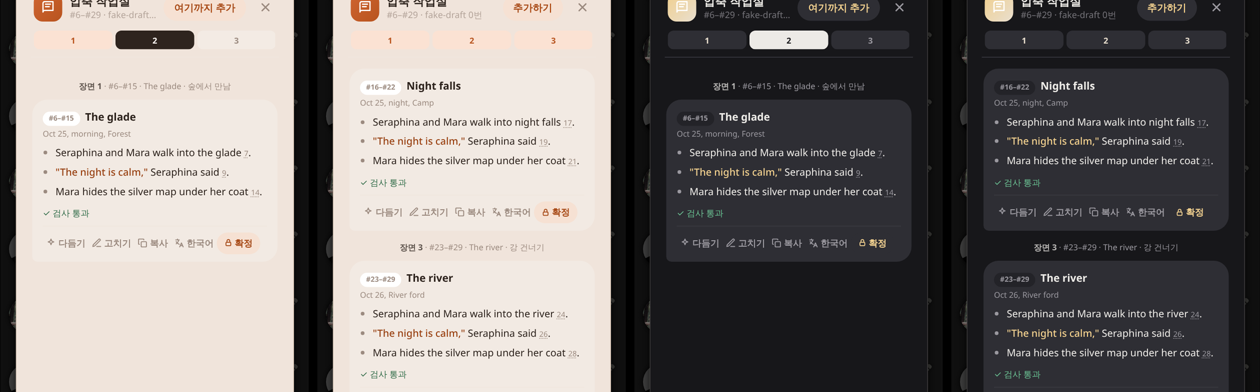
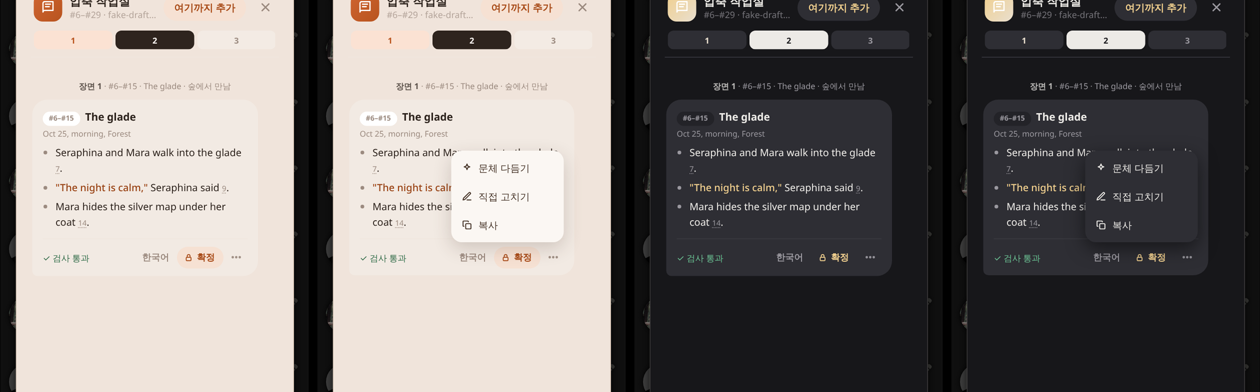
3.169.13: 작업실 answer actions as one row that never wraps: the check on the left, 한국어 and 확정 on the right, the rest behind ⋯
Claude-Session: https://claude.ai/code/session_01TBUyc5NesEMBcPKHWzpL6W

diff --git a/style.css b/style.css
@@ -7909,24 +7909,26 @@ body:is(.na_darkui, :not(.na_darkui)) dialog.popup .na_st button.na_st_add:not(#
 body:not(.na_darkui) dialog.popup .na_st button.na_st_add:not(#na_x) { background: #F6E1D3 !important; color: #A84A17 !important; }
 body.na_darkui dialog.popup .na_st button.na_st_add:not(#na_x) { background: #2E2E34 !important; color: #F0CF8E !important; }
 
-/* ============ 작업실 › answer actions (docs/mockups/ext-studio-acts C): the check as plain green text above a hairline; under
-   it 다듬기 · 고치기 · 복사 · 한국어 as icon + word, 확정 as the one soft orange pill */
-.na_st3_tags { margin-top: 10px !important; }
+/* ============ 작업실 › answer actions (docs/mockups/ext-studio-acts B): one row under a hairline that never wraps — the check
+   as plain green text on the left, 한국어 and 확정 on the right, the rest behind ⋯ */
+.na_st3_bar { display: flex; align-items: center; gap: 8px; margin-top: 12px; padding-top: 10px; border-top: 1px solid var(--st-line, var(--na-line2)); }
+.na_st3_tags { flex: 1; min-width: 0; display: flex; flex-wrap: wrap; gap: 4px 8px; }
 .na_st3_tags .na_st_tag { background: transparent !important; box-shadow: none !important; padding: 0 !important; font-size: 11.5px; }
 .na_st3_tags .na_st_tag.ok::before { content: "✓ "; }
-.na_st3_row { display: flex; align-items: center; gap: 2px; margin-top: 8px; padding-top: 8px; border-top: 1px solid var(--st-line, var(--na-line2)); flex-wrap: nowrap; overflow-x: auto; scrollbar-width: none; }
-.na_st3_row::-webkit-scrollbar { display: none; }
-body:is(.na_darkui, :not(.na_darkui)) dialog.popup .na_st3_row > button:not(#na_x) { flex: none; display: inline-flex !important; align-items: center; gap: 4px; width: auto !important; min-height: 0 !important; height: auto !important; margin: 0 !important; padding: 5px 6px !important; border: 0 !important; border-radius: 999px !important; background: transparent !important; box-shadow: none !important; color: var(--st-dim) !important; font: inherit; font-size: 12px !important; font-weight: 600 !important; white-space: nowrap; cursor: pointer; }
-body:is(.na_darkui, :not(.na_darkui)) dialog.popup .na_st3_row > button.na_st_ko.on:not(#na_x), body:is(.na_darkui, :not(.na_darkui)) dialog.popup .na_st3_row > button.na_st_fix:not(.na_st_polish):not(#na_x) { color: var(--st-acc) !important; }
-body:is(.na_darkui, :not(.na_darkui)) dialog.popup .na_st3_row > button.na_st_lk:not(#na_x) { padding: 5px 12px !important; font-weight: 700 !important; }
-body:not(.na_darkui) dialog.popup .na_st3_row > button.na_st_lk:not(.on):not(#na_x) { background: #F6E1D3 !important; color: #A84A17 !important; }
-body.na_darkui dialog.popup .na_st3_row > button.na_st_lk:not(.on):not(#na_x) { background: #2E2E34 !important; color: #F0CF8E !important; }
-body:is(.na_darkui, :not(.na_darkui)) dialog.popup .na_st3_row > button.na_st_lk.on:not(#na_x) { background: var(--st-ok) !important; color: #fff !important; }
-body.na_darkui dialog.popup .na_st3_row > button.na_st_lk.on:not(#na_x) { color: #13261B !important; }
-.na_st_bub:has(.na_st3_row) { max-width: 100%; align-self: stretch; }
-.na_st3_row { flex-wrap: wrap; overflow: visible; row-gap: 4px; }
-body:is(.na_darkui, :not(.na_darkui)) dialog.popup .na_st3_row > button:not(#na_x) { padding: 5px 5px !important; gap: 3px; }
-body:is(.na_darkui, :not(.na_darkui)) dialog.popup .na_st3_row > button.na_st_lk:first-of-type:not(#na_x) { margin-left: auto !important; }
-.na_st3_row { gap: 0; }
-body:is(.na_darkui, :not(.na_darkui)) dialog.popup .na_st3_row > button:not(.na_st_lk):not(#na_x) { padding: 5px 4px !important; }
-body:is(.na_darkui, :not(.na_darkui)) dialog.popup .na_st3_row > button.na_st_lk:not(#na_x) { padding: 5px 10px !important; }
+.na_st3_right { flex: none; display: flex; align-items: center; gap: 4px; }
+body:is(.na_darkui, :not(.na_darkui)) dialog.popup .na_st3_right > button.na_st_ko:not(#na_x) { margin: 0 !important; padding: 5px 6px !important; border: 0 !important; background: transparent !important; box-shadow: none !important; color: var(--st-dim) !important; font-size: 12px !important; font-weight: 600 !important; white-space: nowrap; }
+body:is(.na_darkui, :not(.na_darkui)) dialog.popup .na_st3_right > button.na_st_ko.on:not(#na_x) { color: var(--st-acc) !important; }
+body:is(.na_darkui, :not(.na_darkui)) dialog.popup .na_st3_right > button.na_st_lk:not(#na_x) { margin: 0 !important; padding: 5px 11px !important; border: 0 !important; box-shadow: none !important; font-size: 12px !important; font-weight: 700 !important; white-space: nowrap; }
+body:not(.na_darkui) dialog.popup .na_st3_right > button.na_st_lk:not(.on):not(#na_x) { background: #F6E1D3 !important; color: #A84A17 !important; }
+body.na_darkui dialog.popup .na_st3_right > button.na_st_lk:not(.on):not(#na_x) { background: #2E2E34 !important; color: #F0CF8E !important; }
+body:is(.na_darkui, :not(.na_darkui)) dialog.popup .na_st3_right > button.na_st_lk.on:not(#na_x) { background: var(--st-ok) !important; color: #fff !important; }
+body.na_darkui dialog.popup .na_st3_right > button.na_st_lk.on:not(#na_x) { color: #13261B !important; }
+.na_st_more { position: relative; display: inline-flex; }
+body:is(.na_darkui, :not(.na_darkui)) dialog.popup button.na_st_dots:not(#na_x) { display: inline-flex !important; align-items: center; justify-content: center; width: 28px !important; height: 28px !important; min-height: 0 !important; margin: 0 !important; padding: 0 !important; border: 0 !important; border-radius: 999px !important; background: transparent !important; box-shadow: none !important; color: var(--st-dim) !important; cursor: pointer; }
+.na_st_amenu { position: absolute; right: 0; bottom: calc(100% + 6px); z-index: 6; display: flex; flex-direction: column; min-width: 150px; padding: 4px; border-radius: 14px; box-shadow: 0 8px 24px rgba(70, 52, 40, 0.2); }
+.na_st_amenu[hidden] { display: none; }
+body:not(.na_darkui) .na_st_amenu { background: #FBF7F3; }
+body.na_darkui .na_st_amenu { background: #2E2E34; box-shadow: 0 8px 24px rgba(0, 0, 0, 0.5); }
+body:is(.na_darkui, :not(.na_darkui)) dialog.popup .na_st_amenu > button:not(#na_x) { display: flex !important; align-items: center; gap: 8px; width: 100% !important; min-height: 0 !important; height: auto !important; margin: 0 !important; padding: 9px 10px !important; border: 0 !important; border-radius: 10px !important; background: transparent !important; box-shadow: none !important; color: var(--na-ink, inherit) !important; font: inherit; font-size: 13px !important; font-weight: 500 !important; text-align: left; white-space: nowrap; cursor: pointer; }
+.na_st_amenu > button:hover { background: rgba(0, 0, 0, 0.04) !important; }
+.na_st_bub:has(.na_st_amenu:not([hidden])) { position: relative; z-index: 3; }

diff --git a/src/studio.js b/src/studio.js
@@ -454,14 +454,16 @@ export async function openStudio() {
             const free = !(t.scene !== undefined && locked.has(t.scene)) && blocks.some(x => x.a !== null);
             const styleBtn = free && !fixBusy.has(i) ? `<button type="button" class="na_st_fix na_st_polish" data-i="${i}" title="문체 다듬기 · 문장 결만 아카이브처럼 · 내용 · 출처 번호 · 인용 · 불릿 수는 그대로 · 원문 없이 섹션만 · AI 기능 모델">다듬기</button>` : '';
             const backBtn = t.before && !fixBusy.has(i) ? `<button type="button" class="na_st_unfix na_st_ib" data-i="${i}" title="고치기 전 답으로" aria-label="고치기 전으로">${svgA(ICO.back, 13, 2.4)}</button>` : '';
-            // (docs/mockups/ext-studio-acts C) the check above a hairline; under it 다듬기 · 고치기 · 복사 · 한국어 as icon + word
-            // and 확정 as the one soft orange pill; 고쳐 받기 / 되돌리기 join the row when they apply
+            // (docs/mockups/ext-studio-acts B) under a hairline: the check (or what it found) on the left; 한국어 and 확정 on the
+            // right, everything else (다듬기 · 고치기 · 복사, and 고쳐 받기 / 되돌리기 when they apply) behind ⋯ so the row never wraps
             const ic = d => svgA(d, 14, 2.2);
-            const polish = styleBtn ? styleBtn.replace('>다듬기</button>', `>${ic('<path d="M12 3l1.8 4.7L18.5 9.5l-4.7 1.8L12 16l-1.8-4.7L5.5 9.5l4.7-1.8z"/>')}다듬기</button>`) : '';
-            const pen = `<button type="button" class="na_st_pen" data-i="${i}" title="직접 고치기 (답을 세 번 터치해도 돼요)">${svgA(ICO.pen, 14, 2.2)}고치기</button>`;
+            const polish = styleBtn ? styleBtn.replace('>다듬기</button>', `>${ic('<path d="M12 3l1.8 4.7L18.5 9.5l-4.7 1.8L12 16l-1.8-4.7L5.5 9.5l4.7-1.8z"/>')}문체 다듬기</button>`) : '';
+            const fixM = fixBtn.replace('>고치기</button>', `>${ic('<path d="M21 12a9 9 0 1 1-3-6.7L21 8"/><path d="M21 3v5h-5"/>')}고쳐 받기</button>`);
+            const backM = backBtn ? `<button type="button" class="na_st_unfix" data-i="${i}">${svgA(ICO.back, 14, 2.2)}고치기 전으로</button>` : '';
+            const pen = `<button type="button" class="na_st_pen" data-i="${i}" title="직접 고치기 (답을 세 번 터치해도 돼요)">${svgA(ICO.pen, 14, 2.2)}직접 고치기</button>`;
             const copy = `<button type="button" class="na_st_copy" data-i="${i}" title="이 답의 섹션을 아카이브 모양으로 복사 (출처 번호는 빼고)">${svgA(ICO.copy, 14, 2.2)}복사</button>`;
-            const koC = koBtn.replace(/>([^<>]*)<\/button>$/, `>${ic('<path d="M4 5h8M8 3v2M5 9c1.5 3 4 5 7 6M11 5c-1 4-3 7-6 9M13 21l4-9 4 9M14.5 18h5"/>')}$1</button>`);
-            return `<div class="na_st_bub">${blocks.map(x => cardHtml(x, ko ? koMap : null)).join('<hr>')}<div class="na_st_tags na_st3_tags">${tags}</div><div class="na_st3_row">${fixBtn}${backBtn}${polish}${pen}${copy}${koC}${locks}</div></div>`;
+            const more = `<span class="na_st_more"><button type="button" class="na_st_dots" aria-label="더 보기" title="더 보기">${svgA('<circle cx="5" cy="12" r="1"/><circle cx="12" cy="12" r="1"/><circle cx="19" cy="12" r="1"/>', 16, 2.8)}</button><span class="na_st_amenu" hidden>${fixM}${backM}${polish}${pen}${copy}</span></span>`;
+            return `<div class="na_st_bub">${blocks.map(x => cardHtml(x, ko ? koMap : null)).join('<hr>')}<div class="na_st3_bar"><span class="na_st3_tags">${tags}</span><span class="na_st3_right">${koBtn}${locks}${more}</span></div></div>`;
         }).join('') + (busy ? '<div class="na_st_bub na_st_typing"><i></i><i></i><i></i><small>쓰는 중 · 이 탭에 있어야 받아요</small></div>' : '');
         const $log = $root.find('.na_st_log');
         const atEnd = $log[0] ? $log[0].scrollHeight - $log[0].scrollTop - $log[0].clientHeight < 80 : true;
@@ -641,6 +643,10 @@ export async function openStudio() {
         if (ta) { ta.style.height = `${Math.min(ta.scrollHeight + 4, 520)}px`; ta.focus(); }
     };
     $root.on('click', '.na_st_pen', function () { startEdit(Number(this.dataset.i)); });
+    // ⋯ opens the answer's small menu (upward, right-aligned); any other tap, or picking from it, closes it
+    $root.on('click', '.na_st_dots', function (e) { e.stopPropagation(); const $m = $(this).next('.na_st_amenu'), open = $m.prop('hidden'); $root.find('.na_st_amenu').prop('hidden', true); $m.prop('hidden', !open); });
+    $root.on('click', e => { if (!$(e.target).closest('.na_st_more').length) $root.find('.na_st_amenu').prop('hidden', true); });
+    $root.on('click', '.na_st_amenu button', () => setTimeout(() => $root.find('.na_st_amenu').prop('hidden', true), 0));
     // three quick taps on an answer open it too (not on its buttons, numbers or quotes)
     $root.on('click', '.na_st_bub', function (e) {
         if (e.detail !== 3 || $(e.target).closest('button, a, textarea, .na_st_tags').length) return;

diff --git a/docs/mockups/ext-studio-acts/mock.html b/docs/mockups/ext-studio-acts/mock.html
@@ -54,4 +54,4 @@
 .more{position:relative}
 .menu{position:absolute;right:0;bottom:36px;width:150px;border-radius:14px;background:#FBF7F3;box-shadow:0 8px 24px rgba(70,52,40,.18);padding:4px;font-size:13px}
 .menu div{padding:8px 10px;border-radius:10px;display:flex;gap:8px;align-items:center;color:#463428}
-</style><div class="mk_wrap"><div class="mk_col"><div class="mk_lab">C. 선 아래 글자 버튼 줄</div><div class="cw"><div class="cd"><div class="h"><span class="rg">#6–#15</span><b>The glade</b></div><small>Oct 25, morning, Forest</small><ul><li>Seraphina and Mara walk into the glade <small>7</small></li><li><span style="color:#A84A17">"The night is calm,"</span> Seraphina said <small>9</small></li><li>Mara hides the silver map <small>14</small></li></ul><div class="row" style="border-top:0;padding-top:0"><span class="ok"><svg width="15" height="15" viewBox="0 0 24 24" fill="none" stroke="currentColor" stroke-width="2" stroke-linecap="round" stroke-linejoin="round"><path d="M20 6L9 17l-5-5"/></svg> 검사 통과</span></div><div class="row"><span class="tx" style="padding:5px 3px"><svg width="15" height="15" viewBox="0 0 24 24" fill="none" stroke="currentColor" stroke-width="2" stroke-linecap="round" stroke-linejoin="round"><path d="M12 3l1.8 4.7L18.5 9.5l-4.7 1.8L12 16l-1.8-4.7L5.5 9.5l4.7-1.8z"/></svg>다듬기</span><span class="tx" style="padding:5px 3px"><svg width="15" height="15" viewBox="0 0 24 24" fill="none" stroke="currentColor" stroke-width="2" stroke-linecap="round" stroke-linejoin="round"><path d="M12 20h9M16.5 3.5a2.1 2.1 0 0 1 3 3L7 19l-4 1 1-4z"/></svg>고치기</span><span class="tx" style="padding:5px 3px"><svg width="15" height="15" viewBox="0 0 24 24" fill="none" stroke="currentColor" stroke-width="2" stroke-linecap="round" stroke-linejoin="round"><rect x="9" y="9" width="13" height="13" rx="2"/><path d="M5 15H4a2 2 0 0 1-2-2V4a2 2 0 0 1 2-2h9a2 2 0 0 1 2 2v1"/></svg>복사</span><span class="tx" style="padding:5px 3px"><svg width="15" height="15" viewBox="0 0 24 24" fill="none" stroke="currentColor" stroke-width="2" stroke-linecap="round" stroke-linejoin="round"><path d="M4 5h8M8 3v2M5 9c1.5 3 4 5 7 6M11 5c-1 4-3 7-6 9M13 21l4-9 4 9M14.5 18h5"/></svg>한국어</span><span class="sp"></span><span class="lk"><svg width="15" height="15" viewBox="0 0 24 24" fill="none" stroke="currentColor" stroke-width="2" stroke-linecap="round" stroke-linejoin="round"><rect x="5" y="11" width="14" height="10" rx="2"/><path d="M8 11V7a4 4 0 0 1 8 0v4"/></svg> 확정</span></div></div></div></div></div>
+</style><div class="mk_wrap"><div class="mk_col"><div class="mk_lab">B. 한국어 · 확정만 + ⋯ 메뉴</div><div class="cw"><div class="cd"><div class="h"><span class="rg">#6–#15</span><b>The glade</b></div><small>Oct 25, morning, Forest</small><ul><li>Seraphina and Mara walk into the glade <small>7</small></li><li><span style="color:#A84A17">"The night is calm,"</span> Seraphina said <small>9</small></li><li>Mara hides the silver map <small>14</small></li></ul><div class="row"><span class="ok"><svg width="15" height="15" viewBox="0 0 24 24" fill="none" stroke="currentColor" stroke-width="2" stroke-linecap="round" stroke-linejoin="round"><path d="M20 6L9 17l-5-5"/></svg> 검사 통과</span><span class="sp"></span><span class="tx">한국어</span><span class="lk"><svg width="15" height="15" viewBox="0 0 24 24" fill="none" stroke="currentColor" stroke-width="2" stroke-linecap="round" stroke-linejoin="round"><rect x="5" y="11" width="14" height="10" rx="2"/><path d="M8 11V7a4 4 0 0 1 8 0v4"/></svg> 확정</span><span class="ib more"><svg width="15" height="15" viewBox="0 0 24 24" fill="none" stroke="currentColor" stroke-width="2" stroke-linecap="round" stroke-linejoin="round"><circle cx="5" cy="12" r="1"/><circle cx="12" cy="12" r="1"/><circle cx="19" cy="12" r="1"/></svg></span></div></div><div style="display:flex;justify-content:flex-end;margin-top:6px"><div class="menu" style="position:static"><div><svg width="15" height="15" viewBox="0 0 24 24" fill="none" stroke="currentColor" stroke-width="2" stroke-linecap="round" stroke-linejoin="round"><path d="M12 3l1.8 4.7L18.5 9.5l-4.7 1.8L12 16l-1.8-4.7L5.5 9.5l4.7-1.8z"/></svg> 문체 다듬기</div><div><svg width="15" height="15" viewBox="0 0 24 24" fill="none" stroke="currentColor" stroke-width="2" stroke-linecap="round" stroke-linejoin="round"><path d="M12 20h9M16.5 3.5a2.1 2.1 0 0 1 3 3L7 19l-4 1 1-4z"/></svg> 직접 고치기</div><div><svg width="15" height="15" viewBox="0 0 24 24" fill="none" stroke="currentColor" stroke-width="2" stroke-linecap="round" stroke-linejoin="round"><rect x="9" y="9" width="13" height="13" rx="2"/><path d="M5 15H4a2 2 0 0 1-2-2V4a2 2 0 0 1 2-2h9a2 2 0 0 1 2 2v1"/></svg> 복사</div></div></div></div></div>

diff --git a/src/core.js b/src/core.js
@@ -12,7 +12,7 @@ import { parseSections } from './sections.js';
 
 export const MODULE = 'narrative_archive';
 export const PROMPT_KEY = 'narrative_archive_injection';
-export const VERSION = '3.169.12';
+export const VERSION = '3.169.13';
 export const SNAPSHOT_MAX = 5;
 export const SNAPSHOT_MAX_CHARS = 2_000_000;
 
